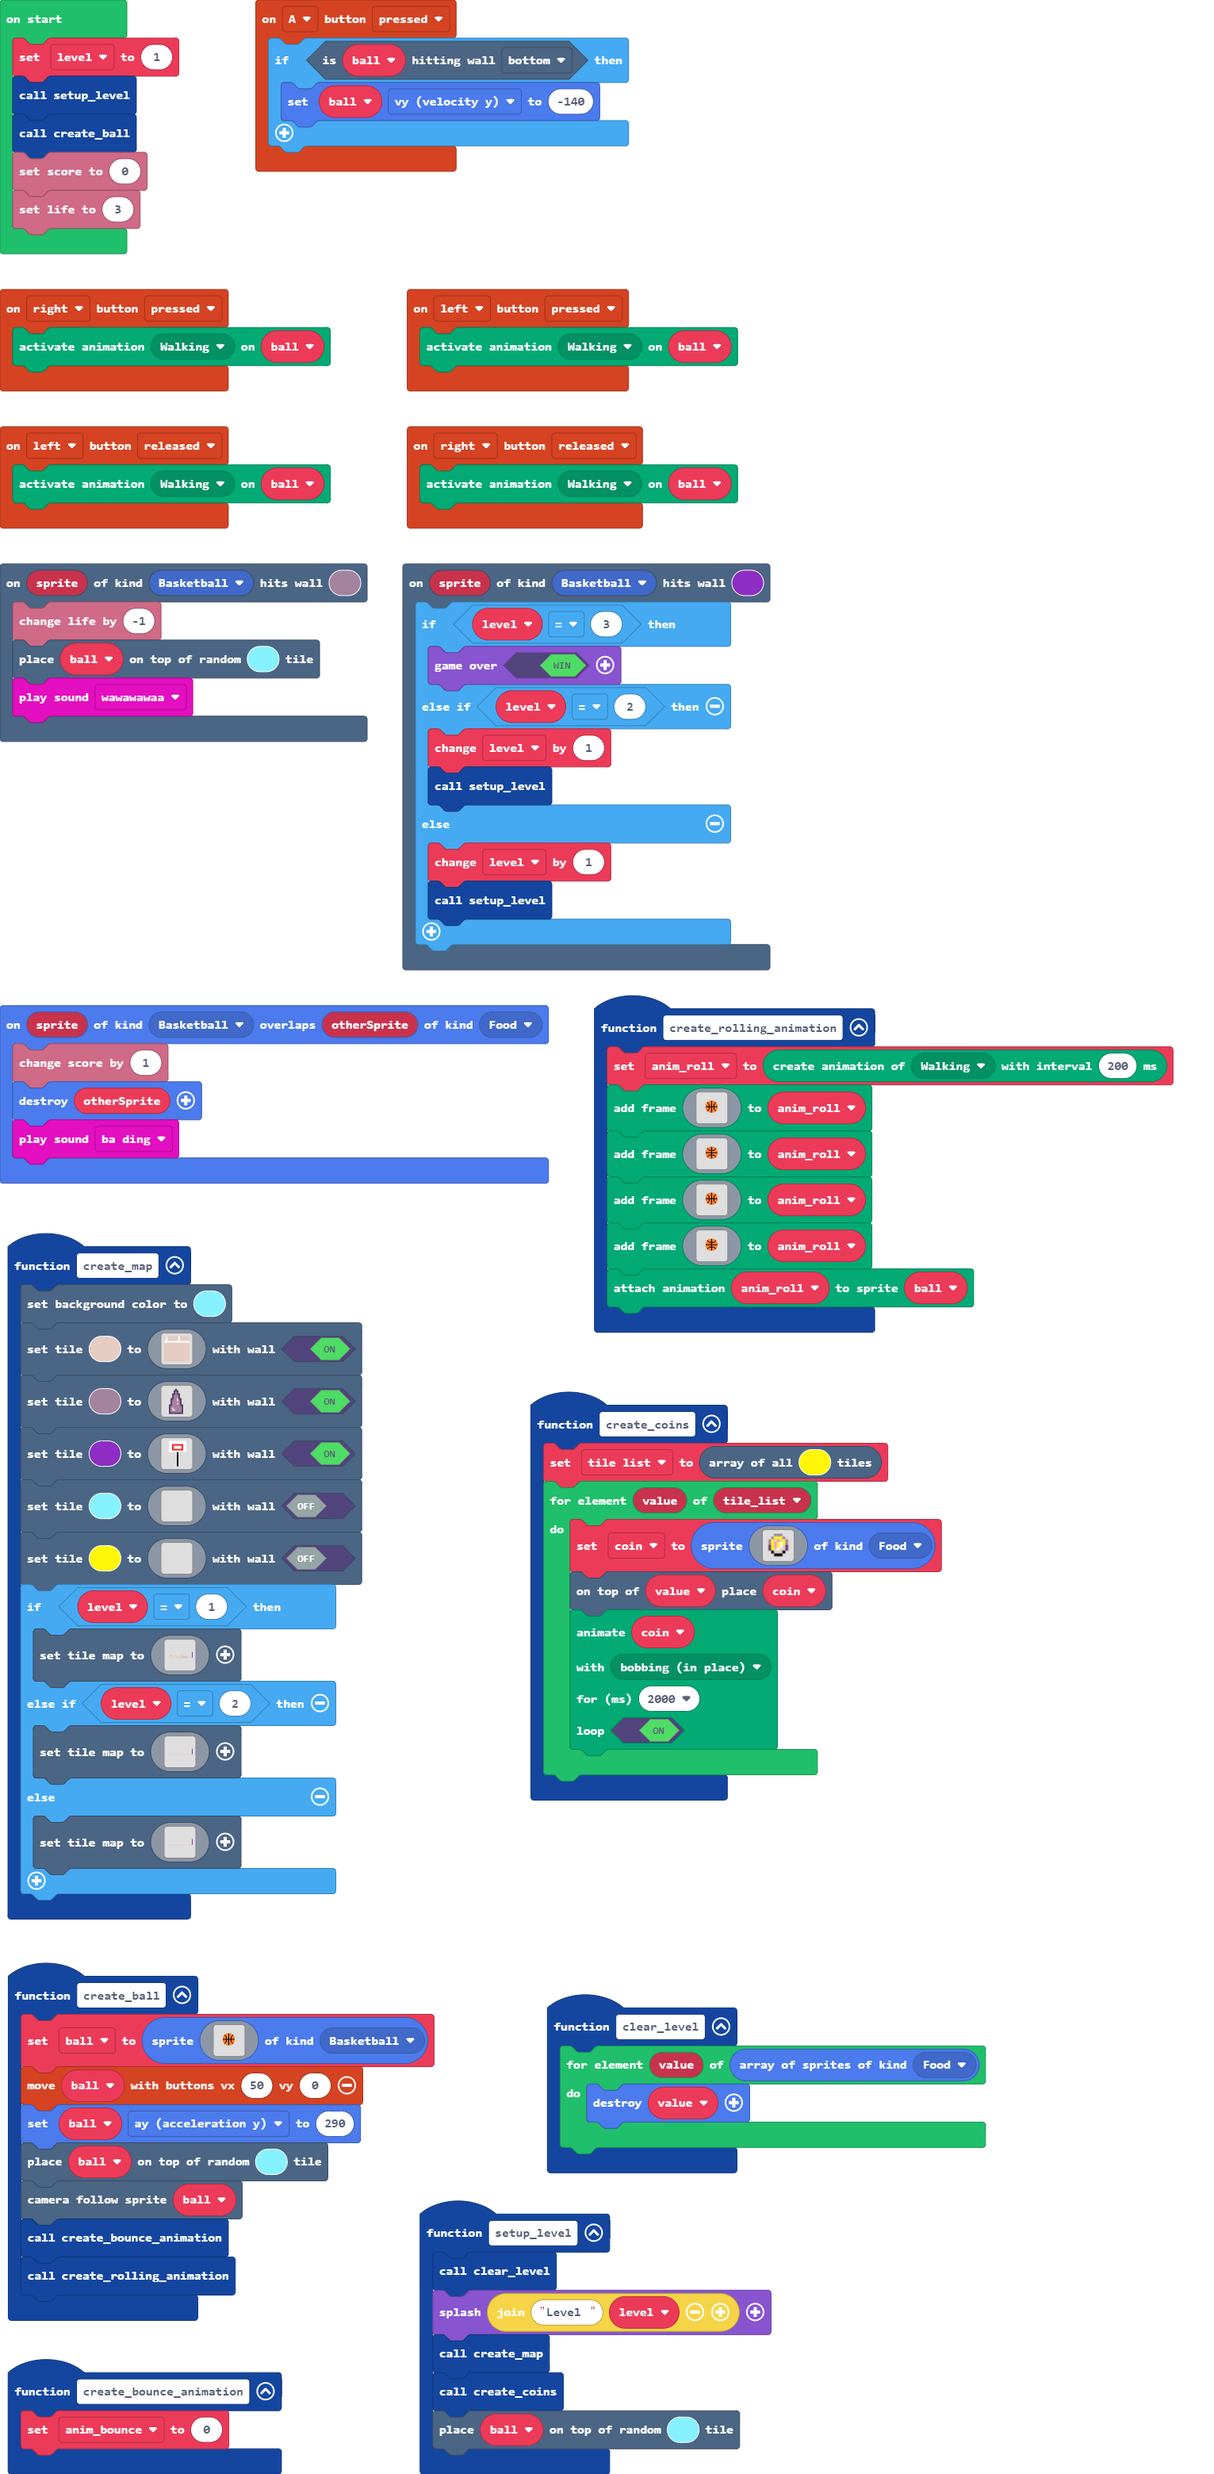
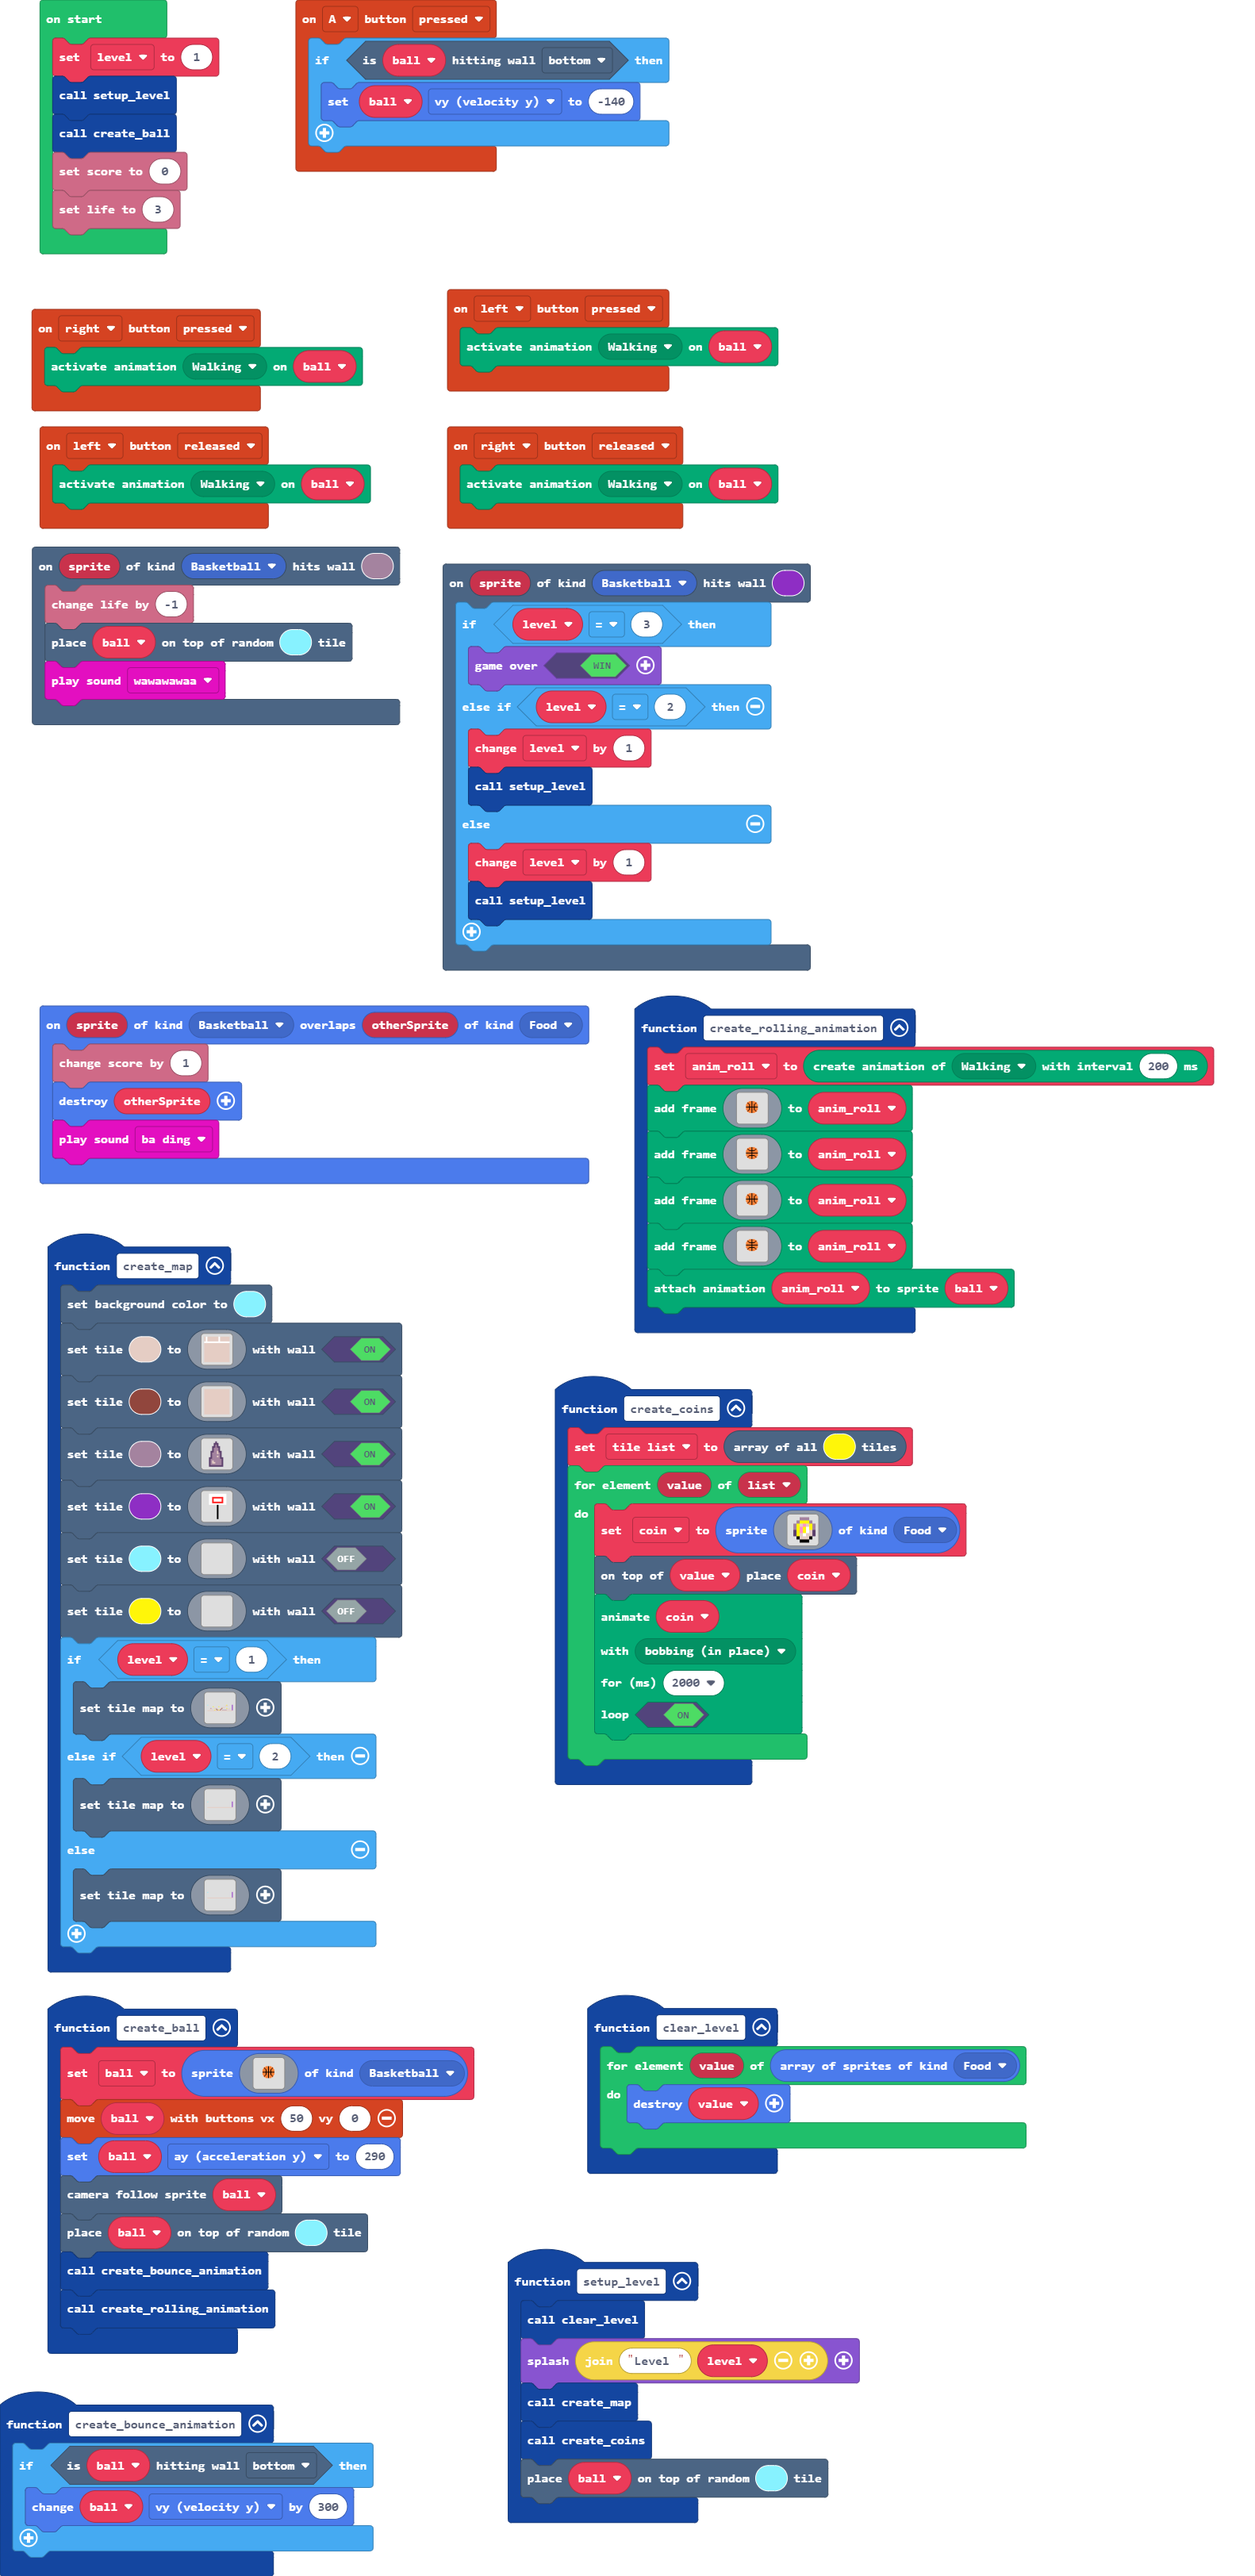
Update main.blocks, main.ts

diff --git a/main.ts b/main.ts
@@ -6,7 +6,7 @@ enum ActionKind {
 namespace SpriteKind {
     export const Basketball = SpriteKind.create()
 }
-let tile_list2: tiles.Tile[] = []
+let list: tiles.Tile[] = []
 scene.onHitTile(SpriteKind.Basketball, 11, function (sprite) {
     info.changeLifeBy(-1)
     scene.placeOnRandomTile(ball, 9)
@@ -24,7 +24,9 @@ scene.onHitTile(SpriteKind.Basketball, 10, function (sprite) {
     }
 })
 function create_bounce_animation () {
-    anim_bounce = 0
+    if (ball.isHittingTile(CollisionDirection.Bottom)) {
+        ball.vy += 300
+    }
 }
 function create_rolling_animation () {
     anim_roll = animation.createAnimation(ActionKind.Walking, 200)
@@ -178,16 +180,16 @@ function clear_level () {
 }
 function create_coins () {
     tile_list = scene.getTilesByType(5)
-    for (let value of tile_list2) {
+    for (let value of list) {
         coin = sprites.create(img`
-            . . . b b b . . . 
-            . . b 5 5 5 b . . 
-            . b 5 d 3 d 5 b . 
-            . b 5 3 5 1 5 b . 
-            . c 5 3 5 1 d c . 
-            . c 5 d 1 d d c . 
-            . . f d d d f . . 
-            . . . f f f . . . 
+            . . . b b b . . 
+            . . b 5 5 5 b . 
+            . b 5 d 3 d 5 b 
+            . b 5 3 5 1 5 b 
+            . c 5 3 5 1 d c 
+            . c 5 d 1 d d c 
+            . . f d d d f . 
+            . . . f f f . . 
             `, SpriteKind.Food)
         scene.place(value, coin)
         animation.runMovementAnimation(
@@ -259,8 +261,8 @@ function create_ball () {
         `, SpriteKind.Basketball)
     controller.moveSprite(ball, 50, 0)
     ball.ay = 290
-    scene.placeOnRandomTile(ball, 9)
     scene.cameraFollowSprite(ball)
+    scene.placeOnRandomTile(ball, 9)
     create_bounce_animation()
     create_rolling_animation()
 }
@@ -271,6 +273,24 @@ function create_map () {
         d 1 d d d d d d d 1 d d d d d d 
         d 1 d d d d d d d 1 d d d d d d 
         1 1 1 1 1 1 1 1 1 1 1 1 1 1 1 1 
+        d d d d d d d d d d d d d d d d 
+        d d d d d d d d d d d d d d d d 
+        d d d d d d d d d d d d d d d d 
+        d d d d d d d d d d d d d d d d 
+        d d d d d d d d d d d d d d d d 
+        d d d d d d d d d d d d d d d d 
+        d d d d d d d d d d d d d d d d 
+        d d d d d d d d d d d d d d d d 
+        d d d d d d d d d d d d d d d d 
+        d d d d d d d d d d d d d d d d 
+        d d d d d d d d d d d d d d d d 
+        d d d d d d d d d d d d d d d d 
+        `, true)
+    scene.setTile(14, img`
+        d d d d d d d d d d d d d d d d 
+        d d d d d d d d d d d d d d d d 
+        d d d d d d d d d d d d d d d d 
+        d d d d d d d d d d d d d d d d 
         d d d d d d d d d d d d d d d d 
         d d d d d d d d d d d d d d d d 
         d d d d d d d d d d d d d d d d 
@@ -339,22 +359,14 @@ function create_map () {
         . . . . . . . . . . . . . . . . 
         `, false)
     scene.setTile(5, img`
-        . . . . . . . . . . . . . . . . 
-        . . . . . . . . . . . . . . . . 
-        . . . . . . . . . . . . . . . . 
-        . . . . . . . . . . . . . . . . 
-        . . . . . . . . . . . . . . . . 
-        . . . . . . . . . . . . . . . . 
-        . . . . . . . . . . . . . . . . 
-        . . . . . . . . . . . . . . . . 
-        . . . . . . . . . . . . . . . . 
-        . . . . . . . . . . . . . . . . 
-        . . . . . . . . . . . . . . . . 
-        . . . . . . . . . . . . . . . . 
-        . . . . . . . . . . . . . . . . 
-        . . . . . . . . . . . . . . . . 
-        . . . . . . . . . . . . . . . . 
-        . . . . . . . . . . . . . . . . 
+        . . . . . . . . . 
+        . . . . . . . . . 
+        . . . . . . . . . 
+        . . . . . . . . . 
+        . . . . . . . . . 
+        . . . . . . . . . 
+        . . . . . . . . . 
+        . . . . . . . . . 
         `, false)
     if (level == 1) {
         scene.setTileMap(img`
@@ -362,9 +374,9 @@ function create_map () {
             . . . . . . . . . . . . . . . . . . . . . . d d d d . . . . . a 
             . . . . . . . 5 . . . . . . 5 . . . . . . . . . . . . . . . . a 
             . . . . . . . . . . . . . . . . . . d d d d . . . . . . . . . a 
-            . . . . b . . . d d d d . . . . . d d . . . . . 5 . . . . . . a 
-            . . . d d d d . . . . d d . . . d d . . . . . . d d d d d . . a 
-            . . . . . . . . . 5 . . d d 5 d d . . b . b . b . . . . . . . a 
+            . . . . b . . . d d d d . . . . . d e . . . . . 5 . . . . . . a 
+            . . . d d d d . . . . e d . . . d e . . . . . . d d d d d . . a 
+            . . . . . . . . . 5 . . e d 5 d e . . b . b . b . . . . . . . a 
             d d d d d d d d d d d d d d d d d d d d d d d d d d d d d d d d 
             `)
     } else if (level == 2) {
@@ -394,7 +406,6 @@ function create_map () {
 let coin: Sprite = null
 let tile_list: tiles.Tile[] = []
 let anim_roll: animation.Animation = null
-let anim_bounce = 0
 let ball: Sprite = null
 let level = 0
 level = 1
